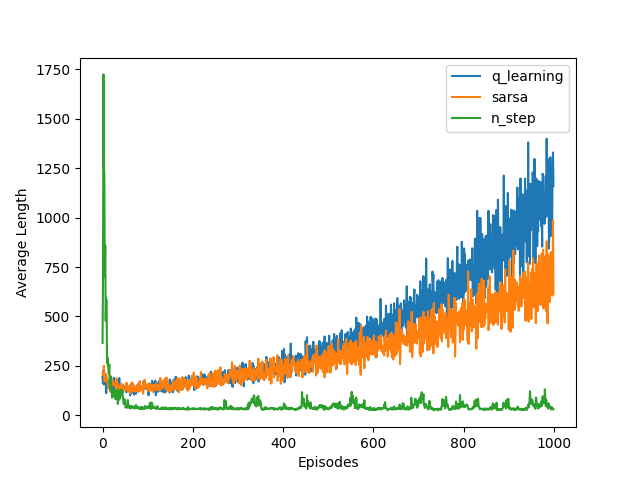
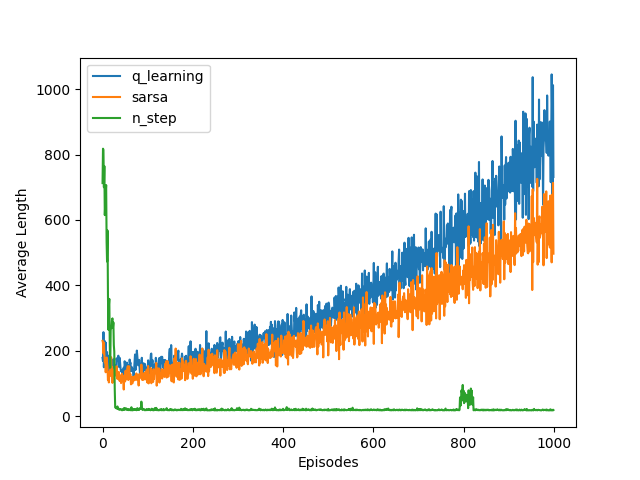
fix: Error with epsilon value

diff --git a/MainPartiallyObservable.py b/MainPartiallyObservable.py
@@ -1,5 +1,4 @@
 import numpy as np
-import matplotlib.pyplot as plt
 
 from Environments.PartiallyObservableEnvs.InvisibleDoorEnv import InvisibleDoorEnv
 from MainSimpleEnvs import show, get_action_from_user, play_simple_env
@@ -7,7 +6,11 @@ from MemoryWrappers.BinaryMemory import BinaryMemory
 from MemoryWrappers.KOrderMemory import KOrderMemory
 from MemoryWrappers.KOrderBuffer import KOrderBuffer
 
-from MainMultiGoal import run_q_learning, run_sarsa, run_n_step, plot_average_length
+from agents.q_learning import QLearning
+from agents.sarsa import Sarsa
+from agents.n_step import NStep
+
+from MainMultiGoal import plot_average_length
 
 
 def play_env_with_binary_memory():
@@ -41,6 +44,71 @@ def play_env_without_extra_memory():
     env = InvisibleDoorEnv()
     play_simple_env(env)
 
+def run_q_learning(env, num_of_episodes):
+    agent = QLearning(env.action_space, gamma=0.99, alpha=0.1, epsilon=0.01, q_baseline=1)
+    episode_lengths = np.zeros(num_of_episodes)
+    for episode in range(num_of_episodes):
+        state = env.reset()
+        done = False
+        episode_length = 0
+        while not done:
+            action = agent.sample_action(state)
+            next_state, reward, done = env.step(action)
+            agent.learn(state, action, reward, next_state, done)
+            state = next_state
+            episode_length += 1
+        episode_lengths[episode] = episode_length
+    return episode_lengths
+
+def run_sarsa(env, num_episodes):
+    agent = Sarsa(env.action_space, gamma=0.99, alpha=0.1, epsilon=0.01, q_baseline=1)
+    episode_lengths = np.zeros(num_episodes)
+    for episode in range(num_episodes):
+        state = env.reset()
+        done = False
+        action = agent.sample_action(state)
+        episode_length = 1
+        while not done:
+            next_state, reward, done = env.step(action)
+            next_action = agent.sample_action(next_state)
+            agent.learn(state, action, reward, next_state, next_action, done)
+            state = next_state
+            action = next_action
+            episode_length += 1
+        episode_lengths[episode] = episode_length
+    return episode_lengths
+
+def run_n_step(env, num_episodes):
+    agent = NStep(env.action_space, 16, gamma=0.99, alpha=0.1, epsilon=0.01, q_baseline=1)
+    episode_lengths = np.zeros(num_episodes)
+    for episode in range(num_episodes):
+        agent.reset_stores()
+        state = env.reset()
+        agent.store_state(state)
+        action = agent.sample_action(state)
+        agent.store_action(action)
+        episode_len = float('inf') # T in pseudo code
+        t = 0
+
+        while True:
+            if t < episode_len:
+                next_state, reward, done = env.step(action)
+                agent.store_state(next_state)
+                agent.store_reward(reward)
+                if done:
+                    episode_len = t + 1
+                else:
+                    action = agent.sample_action(next_state)
+                    agent.store_action(action)
+            tau = t - agent.n + 1
+            if tau >= 0:
+                agent.learn(tau, episode_len)
+            if tau == episode_len - 1:
+                break
+            t += 1
+        episode_lengths[episode] = episode_len
+    return episode_lengths
+
 def select_memory_wrapper():
     print("Select memory wrapper:")
     print("1. No memory")
@@ -72,10 +140,7 @@ if __name__ == '__main__':
     for baseline in baselines:
         average_lengths = np.zeros(num_of_episodes)
         for i in range(num_of_experiments):
-            if baseline == run_n_step:
-                lengths = baseline(env, num_of_episodes, n=16)
-            else:
-                lengths = baseline(env, num_of_episodes)
+            lengths = baseline(env, num_of_episodes)
             average_lengths += (lengths - average_lengths) / (i + 1)
             print(f"Experiment {i + 1} finished")
         baselines_avg_lengths[baseline.__name__[4:]] = average_lengths

diff --git a/README.md b/README.md
@@ -45,7 +45,7 @@ This will display a menu where you can select the type of memory you might want 
 
 The execution times are:
 
-- `No Memory`: ~8.5 minutes
-- `K-order memory`: ~2 minutes
+- `No Memory`: ~14 minutes
+- `K-order memory`: ~1 minutes
 - `Binary memory`: ~3 minutes
-- `K-order buffer`: ~40 seconds
+- `K-order buffer`: ~30 seconds
